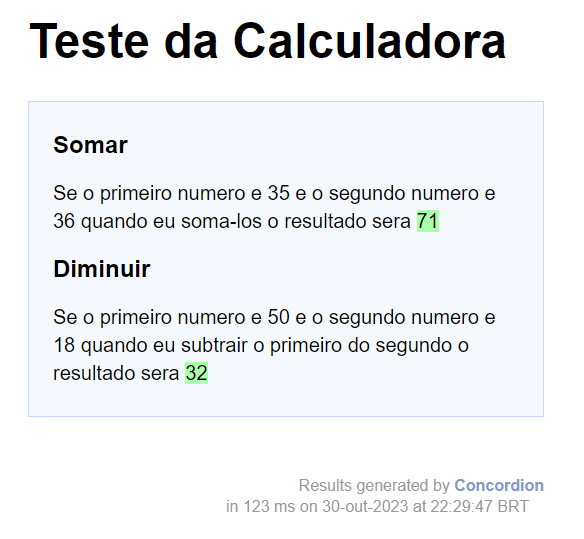
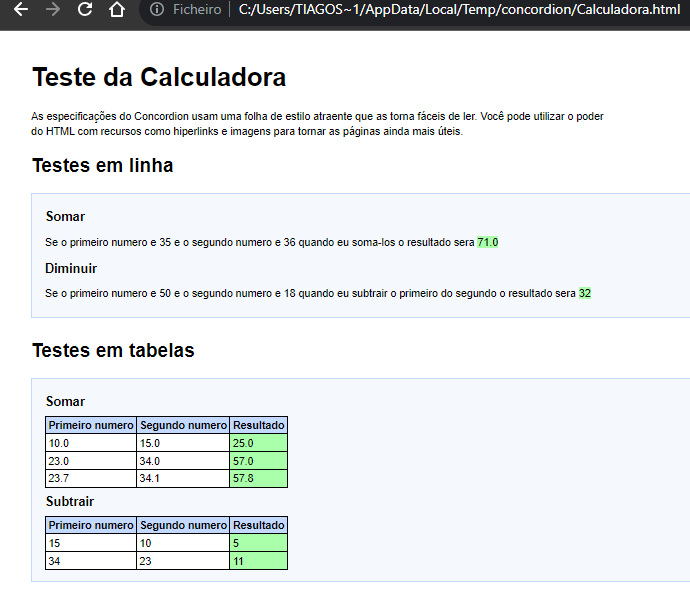
adicionando exemplo em tabelas

diff --git a/src/test/resources/Calculadora.html b/src/test/resources/Calculadora.html
@@ -5,24 +5,74 @@
 </head>
 <body>
 <h1>Teste da Calculadora</h1>
-<div concordion:example="calculadora">
+<p>As especificações do Concordion usam uma folha de estilo atraente que as torna fáceis de ler. Você pode utilizar o poder do HTML com recursos como hiperlinks e imagens para tornar as páginas ainda mais úteis.</p>
+<h2>Testes em linha</h2>
+<div concordion:example="calculadora-inline">
+
+        <h3>Somar</h3>
+        <p>
+            Se o primeiro numero e <span concordion:set="#n1">35</span>
+            e o segundo numero e <span concordion:set="#n2">36</span>
+            <span concordion:execute="#result = somar(#n1,#n2)">quando eu soma-los</span>
+            o resultado sera <span concordion:assert-equals="#result">71.0</span>
+        </p>
+
+        <h3>Diminuir</h3>
+        <p>
+            Se o primeiro numero e <span concordion:set="#n1">50</span>
+            e o segundo numero e <span concordion:set="#n2">18</span>
+            <span concordion:execute="#result = subtrair(#n1,#n2)">quando eu subtrair o primeiro do segundo</span>
+            o resultado sera <span concordion:assert-equals="#result">32</span>
+        </p>
+</div>
+
+<h2>Testes em tabelas</h2>
+<div concordion:example="calculadora-tabela">
 
     <h3>Somar</h3>
-    <p>
-        Se o primeiro numero e <span concordion:set="#n1">35</span>
-        e o segundo numero e <span concordion:set="#n2">36</span>
-        <span concordion:execute="#result = somar(#n1,#n2)">quando eu soma-los</span>
-        o resultado sera <span concordion:assert-equals="#result">71</span>
-    </p>
+    <table concordion:execute="#result = somar(#n1,#n2)">
+        <tr>
+            <th concordion:set="#n1">Primeiro numero</th>
+            <th concordion:set="#n2">Segundo numero</th>
+            <th concordion:assert-equals="#result">Resultado</th>
+        </tr>
+        <tr>
+            <td>10.0</td>
+            <td>15.0</td>
+            <td>25.0</td>
+        </tr>
+        <tr>
+            <td>23.0</td>
+            <td>34.0</td>
+            <td>57.0</td>
+        </tr>
+        <tr>
+            <td>23.7</td>
+            <td>34.1</td>
+            <td>57.8</td>
+        </tr>
+    </table>
 
-    <h3>Diminuir</h3>
-    <p>
-        Se o primeiro numero e <span concordion:set="#n1">50</span>
-        e o segundo numero e <span concordion:set="#n2">18</span>
-        <span concordion:execute="#result = subtrair(#n1,#n2)">quando eu subtrair o primeiro do segundo</span>
-        o resultado sera <span concordion:assert-equals="#result">32</span>
-    </p>
+    <h3>Subtrair</h3>
+    <table concordion:execute="#result = subtrair(#n1,#n2)">
+        <tr>
+            <th concordion:set="#n1">Primeiro numero</th>
+            <th concordion:set="#n2">Segundo numero</th>
+            <th concordion:assert-equals="#result">Resultado</th>
+        </tr>
+        <tr>
+            <td>15</td>
+            <td>10</td>
+            <td>5</td>
+        </tr>
+        <tr>
+            <td>34</td>
+            <td>23</td>
+            <td>11</td>
+        </tr>
+    </table>
 
 </div>
+
 </body>
 </html>

diff --git a/src/test/java/CalculadoraTest.java b/src/test/java/CalculadoraTest.java
@@ -6,7 +6,7 @@ import org.junit.runner.RunWith;
 public class CalculadoraTest {
     private Calculadora calculator = new Calculadora();
 
-    public int somar(int a, int b) {
+    public double somar(double a, double b) {
         return calculator.somar(a, b);
     }
 

diff --git a/src/main/java/org/example/Calculadora.java b/src/main/java/org/example/Calculadora.java
@@ -2,7 +2,7 @@ package org.example;
 
 public class Calculadora {
 
-    public int somar(int a, int b) {
+    public double somar(double a, double b) {
         return a + b;
     }
 

diff --git a/README.md b/README.md
@@ -2,5 +2,5 @@
 Testes de especificação por exemplo com concordion
 
 
-<img src="imagem.PNG" width="50%"/>
+<img src="imagem.PNG" width="70%"/>
 
